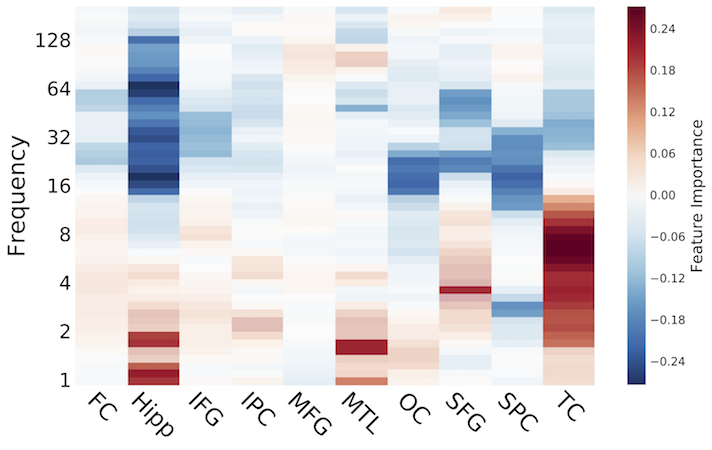
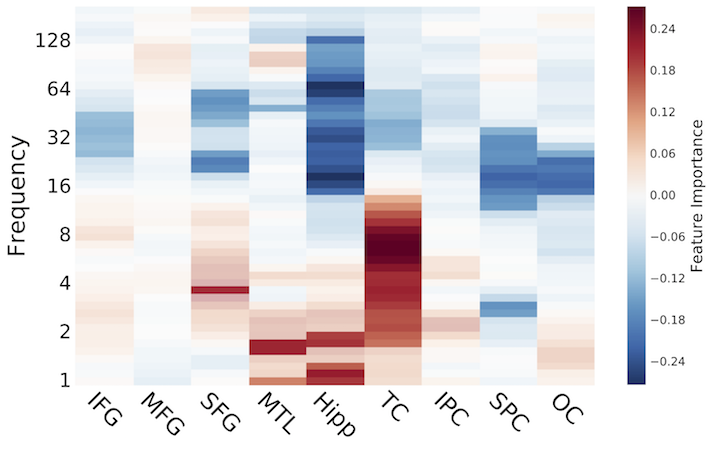
Working on plotting for spectral_shift

diff --git a/GroupLevel/Analyses/group_classifier.py b/GroupLevel/Analyses/group_classifier.py
@@ -3,7 +3,7 @@ from scipy.stats import ttest_1samp
 import numpy as np
 import pandas as pd
 import matplotlib.pyplot as plt
-
+import pdb
 
 class GroupClassifier(Group):
     """
@@ -43,6 +43,12 @@ class GroupClassifier(Group):
         # stack all the subject means
         region_mean = np.stack([x.res['forward_model_by_region'] for x in self.subject_objs], axis=0)
 
+        # reorder to group the regions in a way that visually makes more sense
+        regions = np.array(['IFG', 'MFG', 'SFG', 'MTL', 'Hipp', 'TC', 'IPC', 'SPC', 'OC'])
+        key_order = self.subject_objs[0].res['regions']
+        new_order = np.searchsorted(key_order, np.array(regions))
+        region_mean = region_mean[:, :, new_order]
+
         # mean across subjects, that is what we will plot
         plot_data = np.nanmean(region_mean, axis=0)
         clim = np.max(np.abs([np.nanmin(plot_data), np.nanmax(plot_data)]))
@@ -58,7 +64,6 @@ class GroupClassifier(Group):
             cb.set_label(label='Feature Importance', size=16)  # ,rotation=90)
             cb.ax.tick_params(labelsize=12)
 
-            regions = self.subject_objs[0].res['regions']
             plt.xticks(range(len(regions)), regions, fontsize=24, rotation=-45)
 
             new_freqs = self.compute_pow_two_series()

diff --git a/README.md b/README.md
@@ -137,10 +137,10 @@ group_res.plot_auc_hist()
 Or we can plot the average importance of the classifier model weights, as measured by a forward model, as a function of brain region. In this case, this tells us which brain regions contribute most strongly to memory encoding. Washed out pixel are not significant at the group level, all others are.
 ```
 # Visualize the classifier model as a function of brain reigon.
-# FC: frontal cortex; Hipp: hippocampus; IFG: inferior frontal gyrus
-# IPC: inferior parietal cortex; MFG: middle frontal gyrus; MTL: medial temporal lobe cortex
-# OC: occipital cortex, SFG: superior frontal gyrus; SPC: superior parietal cortex
-# TC: temporal cortex
+# IFG: inferior frontal gyrus; MFG: middle frontal gyrus; SFG: superior frontal gyrus
+# MTL: medial temporal lobe cortex; Hipp: hippocampus; TC: lateral temporal cortex
+# IPC: inferior parietal cortex; SPC: superior parietal cortex
+# OC: occipital cortex
 
 group_res.plot_feature_map()
 ```
